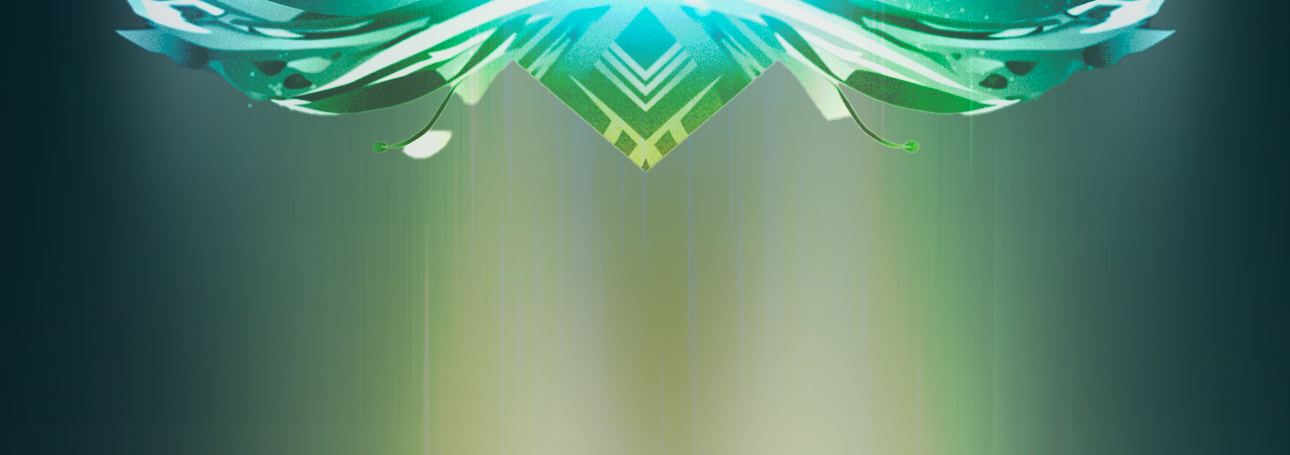
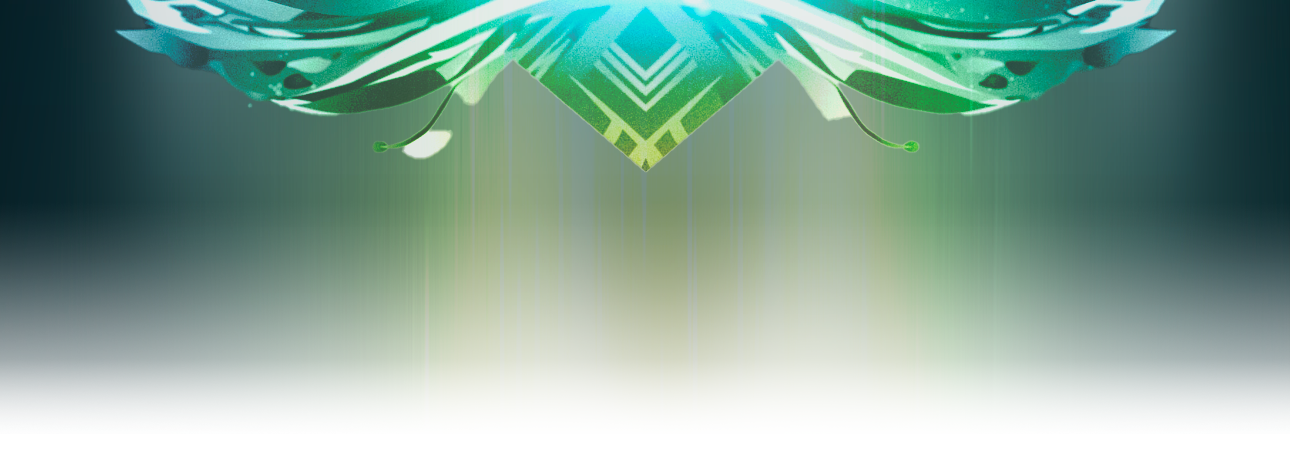
Updating Scheduler Screen Background/Header Assets and Colors

diff --git a/src/components/screens/SchedulerScreen.tsx b/src/components/screens/SchedulerScreen.tsx
@@ -1,14 +1,14 @@
 import React, { PureComponent, createRef } from "react";
-import { Dimensions, FlatList, Platform, TextInput, View } from "react-native";
+import { Dimensions, FlatList, Image, Platform, View } from "react-native";
 import { Gesture, GestureDetector } from "react-native-gesture-handler";
 import DataModel from "../../DataModel";
 import LauncherController from "../../LauncherController";
 import LComponent from "../../core/LComponent";
 import TransitionDataModelUpdate from "../../transitions/TransitionDataModelUpdate";
 import ScheduleListItem from "../schedulelist/ScheduleListItem";
+import TabBar from "../tabbar/TabBar";
 import ScreenHeader from "./ScreenHeader";
 import ScreenHomeButton from "./ScreenHomeButton";
-import TabBar from "../tabbar/TabBar";
 
 
 
@@ -39,13 +39,16 @@ class SchedulerScreen extends PureComponent {
                 const item = this.state.dataModelList[i].data[j];
                 item['refNativeGesture'] = this.scheduleListArray[i].nativeGestureObj;
             }
-            this.scheduleListArray[i].data.push({ "id": 'emptyschedule'+i, "itemType": "type5", "artistName": "", "sessionMainTitle": "", "time": "", "room": "", "level": "-1", "group": [], "groupTitle": "", "groupSubtitle": "", "shortMainTitle": "", "dateString": "", "startTime": "", "endTime": "", "place": "", "sessionSubtitle": "", "sessionDescription": "", "artistOne": "", "artistTwo": "", "artistLocation": "!", "flag": false, "flagIncludeInNow": false })
+            this.scheduleListArray[i].data.push({ "id": 'emptyschedule' + i, "itemType": "type5", "artistName": "", "sessionMainTitle": "", "time": "", "room": "", "level": "-1", "group": [], "groupTitle": "", "groupSubtitle": "", "shortMainTitle": "", "dateString": "", "startTime": "", "endTime": "", "place": "", "sessionSubtitle": "", "sessionDescription": "", "artistOne": "", "artistTwo": "", "artistLocation": "!", "flag": false, "flagIncludeInNow": false })
+            this.scheduleListArray[i].data.push({ "id": 'emptyschedule' + (i + 1), "itemType": "type5", "artistName": "", "sessionMainTitle": "", "time": "", "room": "", "level": "-1", "group": [], "groupTitle": "", "groupSubtitle": "", "shortMainTitle": "", "dateString": "", "startTime": "", "endTime": "", "place": "", "sessionSubtitle": "", "sessionDescription": "", "artistOne": "", "artistTwo": "", "artistLocation": "!", "flag": false, "flagIncludeInNow": false })
         }
 
 
 
         let offsetX = 0;
-        let offsetY = 181;
+        // let offsetY = 181;
+        let offsetY = 155;
+
 
         // let focusItem = LauncherController.getInstance().context.focusedItemData;
         // const artistData = DataModel.dataArtists[focusItem.artistOne];
@@ -60,19 +63,23 @@ class SchedulerScreen extends PureComponent {
                     name='sessionScreenContainer'
                     style={{
                         position: 'absolute',
-                        backgroundColor: '#25649a',
+                        backgroundColor: 'transparent',
                     }}
                     visualProperties={{
                         alpha: 1.0, x: 'windowWidth', y: 0, z: 0, w: "windowWidth", h: "windowHeight"
                     }}
                 >
-                    <ScreenHeader
-                        text={"WORKSHOP SCHEDULE"}
-                        textStyle={{ top: 65 }}
-                        color='#FFFFFF'
-                        imgSrc={require('../../../assets/header-schedule-bg.png')} />
-
-
+                    <Image
+                        style={{
+                            // backgroundColor: 'skyblue',
+                            top: 0, left: 0, position: 'absolute',
+                            width: Dimensions.get('screen').width,
+                            height: Dimensions.get('screen').height,
+                            resizeMode: "cover",
+                            opacity: 1.0
+                        }}
+                        source={require('../../../assets/screen-scheduler-bg.png')}
+                    />
 
                     {this.state.modelUpdateState == 2 &&
                         this.scheduleListArray.map((scheduleList, i) => {
@@ -84,7 +91,8 @@ class SchedulerScreen extends PureComponent {
                                     name={'scheduleList' + i}
                                     style={{
                                         position: 'absolute',
-                                        backgroundColor: '#25649a',
+                                        // backgroundColor: '#25649a',
+                                        opacity: 0.5
                                     }}
                                     visualProperties={{
                                         alpha: 1 - Math.max(Math.min(1, i - selectedDayIndex), 0) / 2,
@@ -94,13 +102,21 @@ class SchedulerScreen extends PureComponent {
                                         h: Dimensions.get('screen').height - offsetY,
                                     }}
                                 >
+                                    <View
+                                        style={{
+                                            width: Dimensions.get('screen').width - offsetX,
+                                            height: Dimensions.get('screen').height - offsetY,
+                                            backgroundColor: '#25649a',
+                                            opacity: 0.7
+                                        }}
+                                    />
 
                                     <GestureDetector gesture={scheduleList.nativeGestureObj}>
                                         <FlatList
                                             ref={(list) => { scheduleList.flatListRef = list; }}
                                             style={{
                                                 position: 'absolute',
-                                                backgroundColor: '#25649a',
+                                                // backgroundColor: '#25649a',
                                                 left: 0, top: 20,
                                                 width: Dimensions.get('screen').width - offsetX,
                                                 height: Dimensions.get('screen').height - offsetY - 10,
